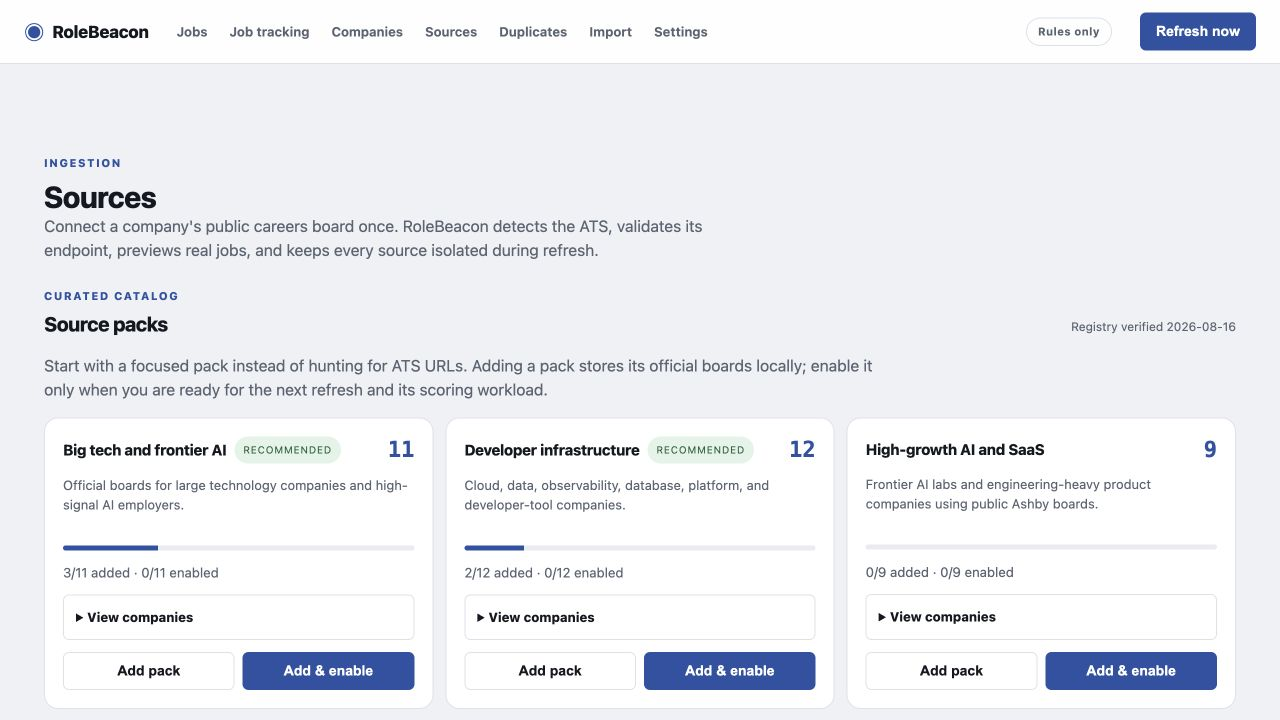
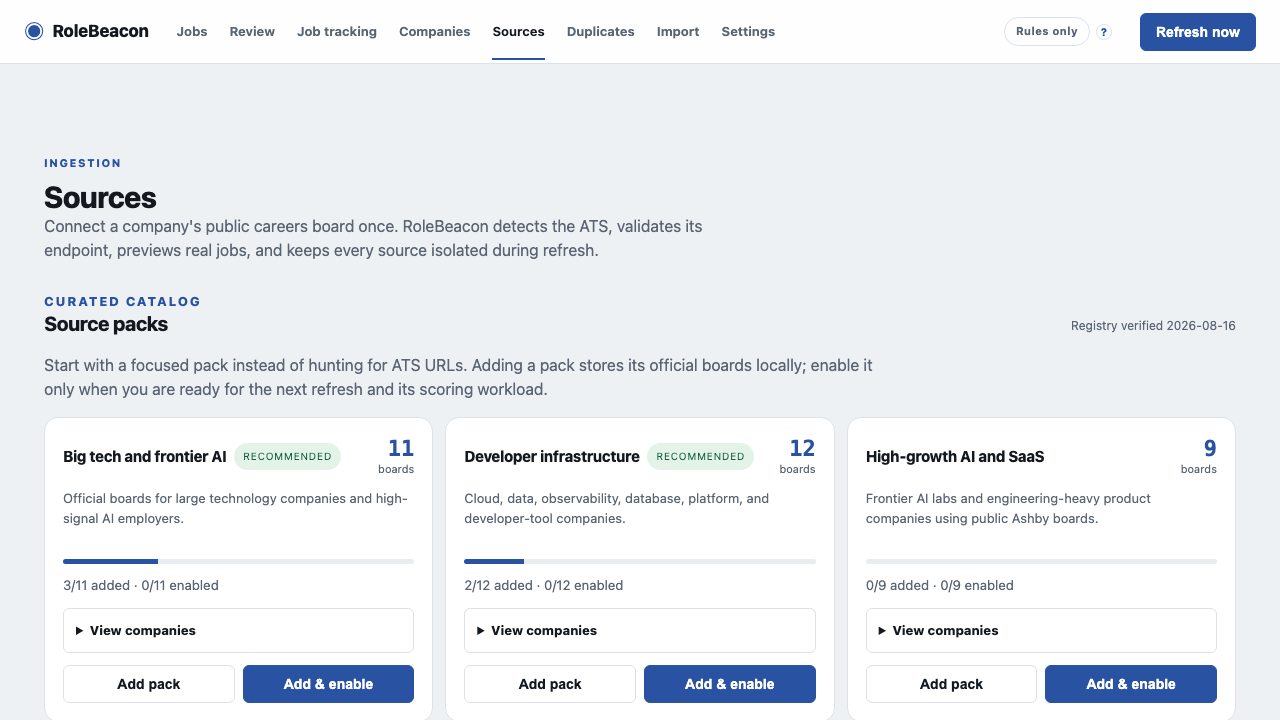
docs: reshoot the screenshots against the interface as it now is
The nine README screenshots predated the UX pass and showed an app that no
longer exists: the removed dashboard hero, "shortlisted" instead of
"bookmarked", the job-card meta row that mixed a full sentence with a raw id, a
navigation bar with no current-page marker, and a tracking board that was one
column beside four empty ones.

Every shot is regenerated at the same 1280x720, from a synthetic database seeded
in an isolated ROLEBEACON_ROOT with auto-sync off, so no external source was
contacted. Eligibility and scores are not typed in by hand: the seed writes
invented postings and then runs the real `evaluate_eligibility` and `rule_score`
over them, so the numbers on the page are what the engine actually produces for
that profile.

Prose that the same pass invalidated:

- The Jobs page no longer shows a visible-versus-total pair and a removable
  filter chip; it states the count and what the default hid, inline. Two
  off-role postings are seeded so the screenshot shows that line doing its job.
- The recommended export was documented as matching the dashboard rule. It does
  not: the export thresholds job fit, the dashboard thresholds the opportunity
  score that blends in company fit. Both are now described as what they are.
- Alt text is rewritten to describe the new images rather than the old ones.
- Dark mode is listed among the highlights.

diff --git a/README.md b/README.md
@@ -26,6 +26,7 @@ OpenAI-compatible model is an optional quality layer for evidence-rich scoring a
 - Provenance-backed company research and a separate company-fit score.
 - Selective, factual, on-demand cover letters.
 - Human-approved browser preparation that cannot submit an application.
+- Light and dark interface, following the operating system's colour scheme.
 
 ## Screenshots
 
@@ -33,22 +34,22 @@ All screenshots use synthetic candidate, company, source, and job data in an iso
 No external source was contacted to produce them.
 
 <p align="center">
-  <img src="docs/screenshots/dashboard.png" alt="RoleBeacon dashboard with recommended opportunities" width="49%">
-  <img src="docs/screenshots/jobs.png" alt="RoleBeacon job discovery showing visible and hidden result counts and a removable default filter" width="49%">
+  <img src="docs/screenshots/dashboard.png" alt="RoleBeacon dashboard opening on collection counts and the ranked shortlist" width="49%">
+  <img src="docs/screenshots/jobs.png" alt="RoleBeacon job discovery with the match count and one row of faceted filters" width="49%">
 </p>
 <p align="center">
-  <img src="docs/screenshots/job-detail.png" alt="RoleBeacon evidence-based job detail and application controls" width="49%">
-  <img src="docs/screenshots/score-factors.png" alt="RoleBeacon expanded accessible score-factor explanation" width="49%">
+  <img src="docs/screenshots/job-detail.png" alt="RoleBeacon job detail leading with the opportunity score and why it matches" width="49%">
+  <img src="docs/screenshots/score-factors.png" alt="RoleBeacon score breakdown with one factor expanded, beside the application kit" width="49%">
 </p>
 <p align="center">
   <img src="docs/screenshots/company-detail.png" alt="RoleBeacon provenance-backed company assessment and fact coverage" width="49%">
-  <img src="docs/screenshots/job-tracking.png" alt="RoleBeacon human-owned application tracking board" width="49%">
+  <img src="docs/screenshots/job-tracking.png" alt="RoleBeacon human-owned application tracking board across its five columns" width="49%">
 </p>
 <p align="center">
   <img src="docs/screenshots/sources.png" alt="RoleBeacon curated source packs and explicit enablement controls" width="49%">
-  <img src="docs/screenshots/source-health.png" alt="RoleBeacon per-source metrics and anomalous snapshot preservation warning" width="49%">
+  <img src="docs/screenshots/source-health.png" alt="RoleBeacon source health opening on the sources that need attention, including a preserved anomalous snapshot" width="49%">
 </p>
-<p align="center"><img src="docs/screenshots/setup-import.png" alt="RoleBeacon first-run setup with separate job-search and CV-and-applications sections" width="75%"></p>
+<p align="center"><img src="docs/screenshots/setup-import.png" alt="RoleBeacon first-run setup offering a guided path or a strict LLM prompt, with no source contacted yet" width="75%"></p>
 
 ## Requirements
 
@@ -134,8 +135,10 @@ current directory.
 It writes `recommended-jobs.json`, `recommended-jobs.md`, `all-jobs.json`, and `all-jobs.md`, then prints
 their absolute paths. JSON contains the complete job, eligibility, scoring, and source-provenance fields;
 Markdown is a scannable summary. The all-jobs export contains every active, unmerged job in decision-ready
-order without a row limit. The recommended export matches the dashboard rule: job-fit score 65 or higher
-and eligibility not `ineligible`, so an unresolved eligibility result stays visibly marked `unknown`.
+order without a row limit. The recommended export selects job-fit score 65 or higher with eligibility not
+`ineligible`, so an unresolved eligibility result stays visibly marked `unknown`. Note that the dashboard's
+own shortlist applies the same threshold to the *opportunity* score (job fit blended with company fit), so
+the two selections are close but not identical.
 
 Use existing local data without contacting sources or a model, choose another parent directory, or explicitly
 start an already-installed Ollama before refreshing:
@@ -263,8 +266,8 @@ Setup generates strategies from the user's actual configuration:
 - an explicit fallback strategy.
 
 The Jobs page hides titles from a clearly different role family by default, but this active default is
-never silent: the page shows the visible-versus-total count, the number hidden, and a removable filter
-chip that reveals those postings without changing the saved profile.
+never silent: the match count reads "N matching jobs · M hidden as different roles — show", and the link
+reveals those postings without changing the saved profile.
 
 The deterministic score totals 100 points:
 
